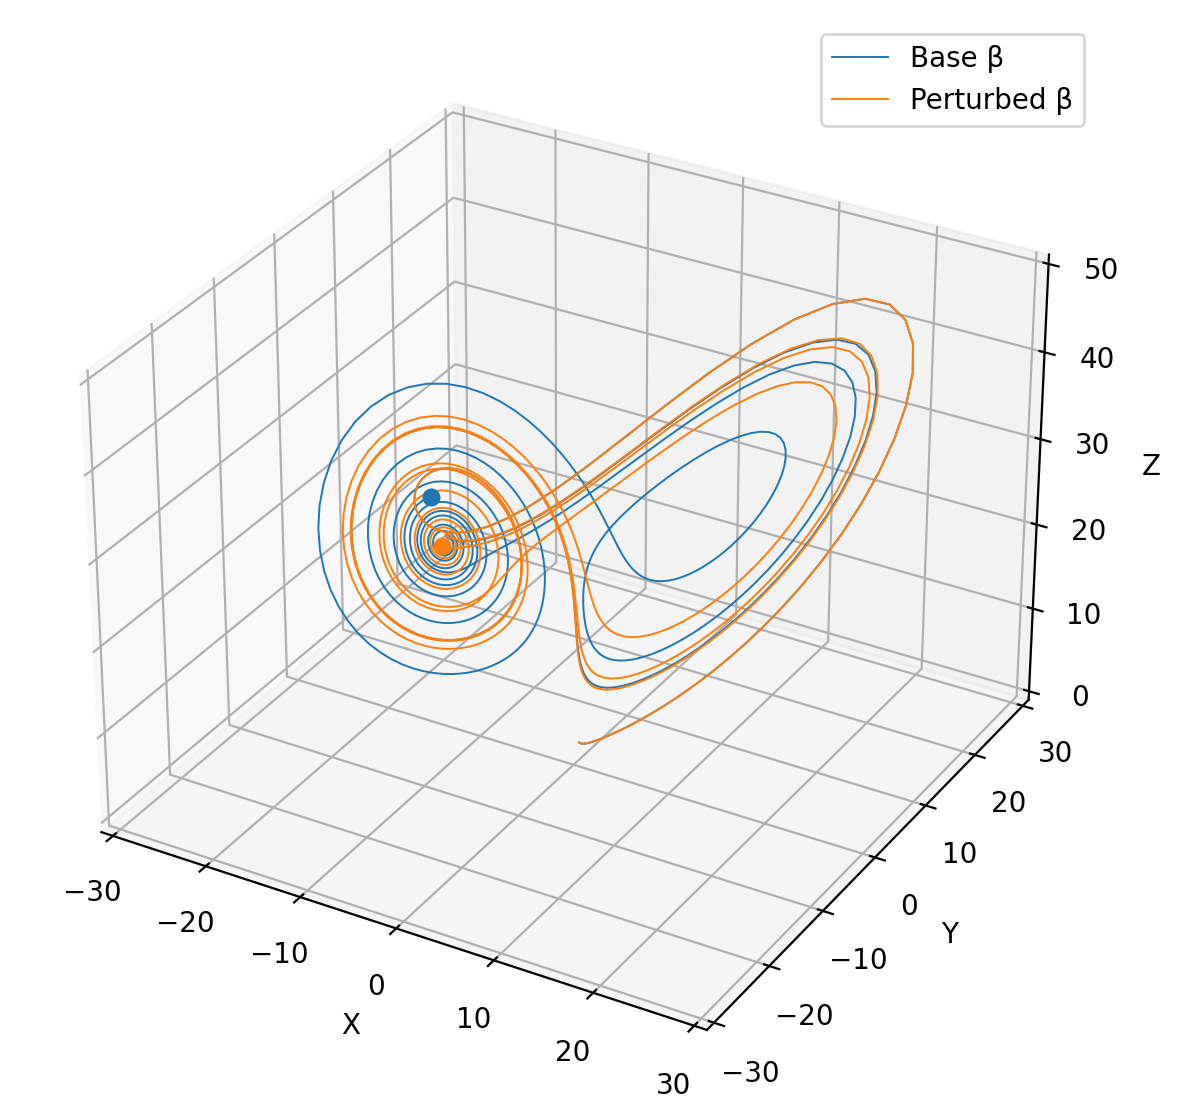
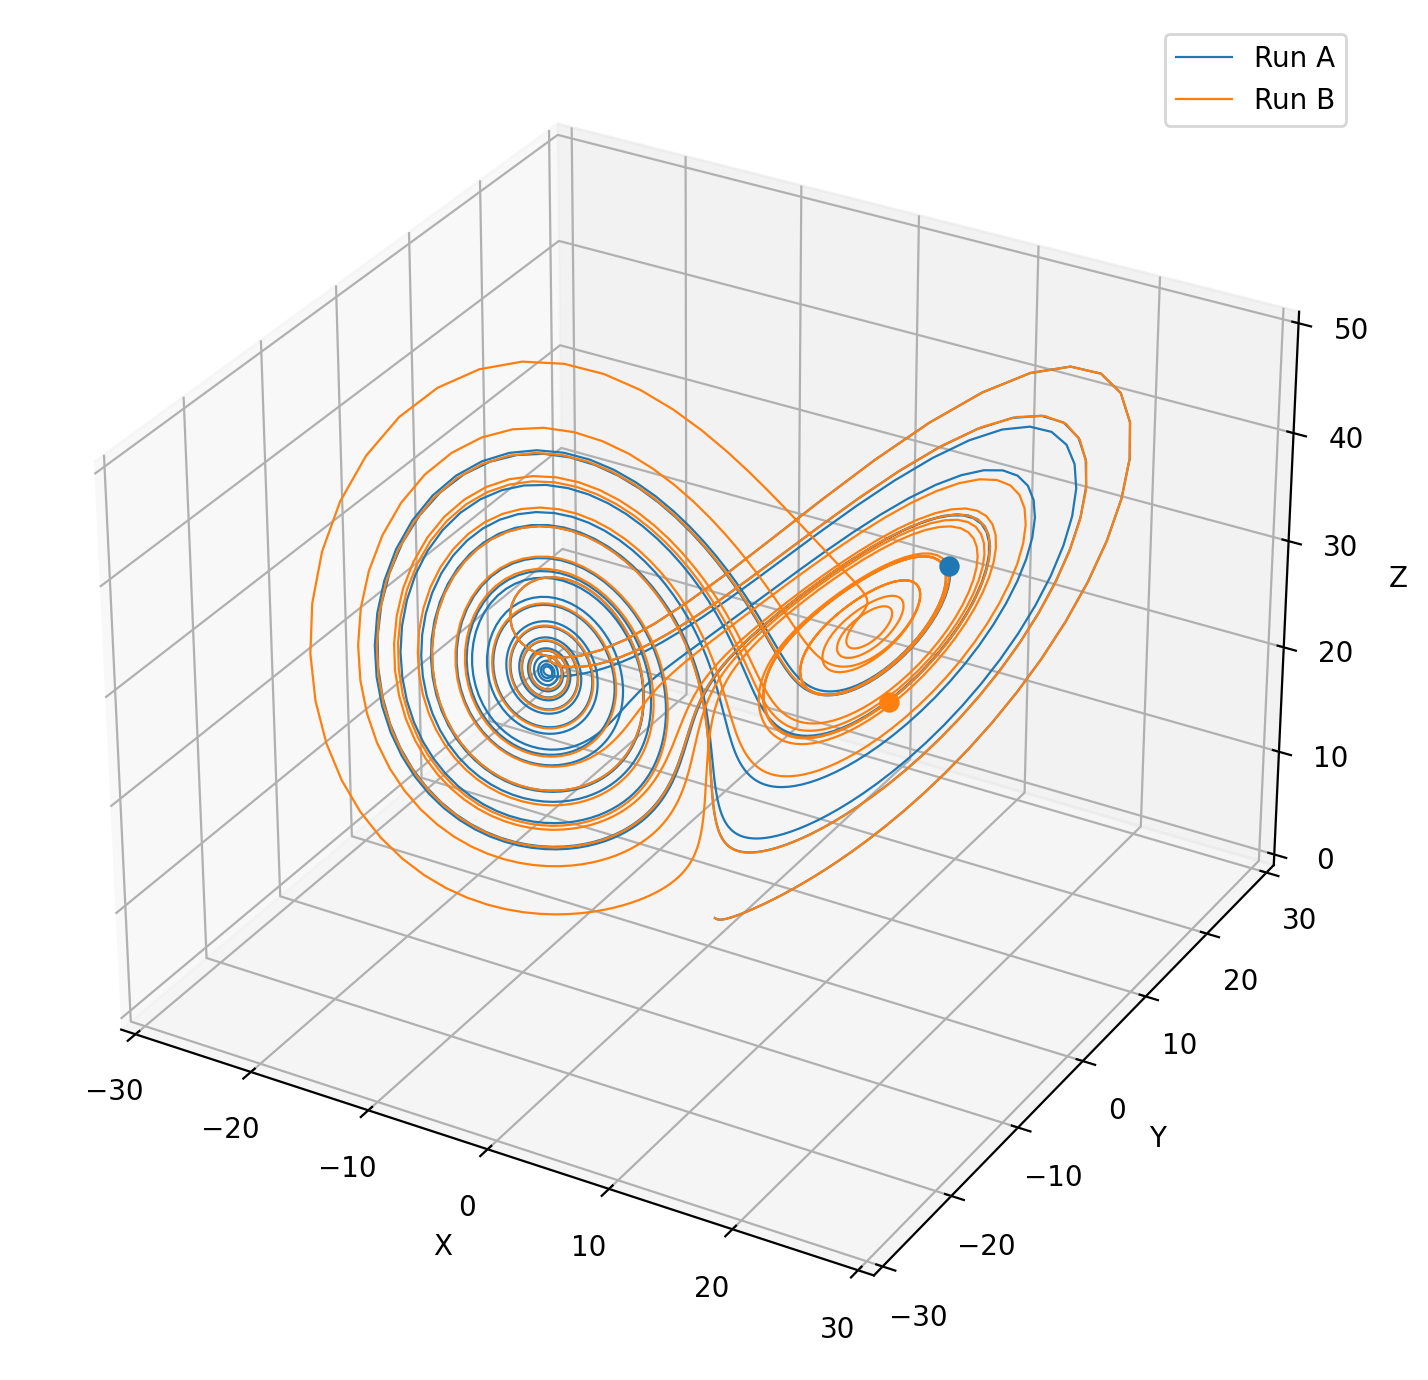
Update website

diff --git a/projs/lorenz63_demo.html b/projs/lorenz63_demo.html
@@ -6,7 +6,7 @@
 
 <meta name="viewport" content="width=device-width, initial-scale=1.0, user-scalable=yes">
 
-<meta name="description" content="A demonstration of the Butterfly Effect using the Lorenz63 model.">
+<meta name="description" content="Compare two different Lorenz63 trajectories with custom parameters.">
 
 <title>Lorenz63 Demo – Feng Zhu</title>
 <style>
@@ -73,14 +73,6 @@ ul.task-list li input[type="checkbox"] {
     "search-label": "Search"
   }
 }</script>
-<script>
-document.addEventListener("DOMContentLoaded", function () {
-  document.querySelectorAll(".quarto-listing a").forEach(link => {
-    link.setAttribute("target", "_blank");
-    link.setAttribute("rel", "noopener noreferrer");
-  });
-});
-</script>
 <link rel="stylesheet" href="https://cdn.jsdelivr.net/gh/jpswalsh/academicons@1/css/academicons.min.css">
 
 
@@ -305,7 +297,7 @@ document.addEventListener("DOMContentLoaded", function () {
 
 <div>
   <div class="description">
-    A demonstration of the Butterfly Effect using the Lorenz63 model.
+    Compare two different Lorenz63 trajectories with custom parameters.
   </div>
 </div>
 
@@ -322,14 +314,14 @@ document.addEventListener("DOMContentLoaded", function () {
 </header>
 
 
-<p>Move the sliders below to see the Butterfly Effect in action. This simulation runs entirely in your browser.</p>
+<p>Modify the parameters for two different runs to see how sensitive the system is to initial conditions and coefficients.</p>
 <script src="https://cdn.jsdelivr.net/npm/@stlite/mountable@0.39.0/build/stlite.js"></script>
 <div id="stlite-root">
 
 </div>
 <script>
       stlite.mount({
-        requirements: ["matplotlib", "numpy"], // Install needed packages in the browser
+        requirements: ["matplotlib", "numpy"],
         entrypoint: "app.py",
         files: {
           "app.py": `
@@ -339,67 +331,83 @@ import numpy as np
 
 # --- 1. LORENZ63 CLASS ---
 class Lorenz63:
-    def __init__(self, x, y, z, sigma=10, rho=28, beta=8/3):
+    def __init__(self, x, y, z, sigma, rho, beta):
         self.x, self.y, self.z = x, y, z
         self.xs, self.ys, self.zs = [x], [y], [z]
         self.sigma, self.rho, self.beta = sigma, rho, beta
     
-    def grad(self):
-        x_dot = self.sigma*(self.y - self.x)
-        y_dot = self.x*(self.rho - self.z) - self.y
-        z_dot = self.x*self.y - self.beta*self.z
+    def grad(self, x, y, z):
+        x_dot = self.sigma*(y - x)
+        y_dot = x*(self.rho - z) - y
+        z_dot = x*y - self.beta*z
         return x_dot, y_dot, z_dot
 
-    def forward(self, num_steps=1, dt=0.01):
+    def forward(self, num_steps, dt):
+        curr_x, curr_y, curr_z = self.x, self.y, self.z
         for _ in range(num_steps):
-            x_dot, y_dot, z_dot = self.grad()
-            self.x += x_dot * dt
-            self.y += y_dot * dt
-            self.z += z_dot * dt
-            self.xs.append(self.x)
-            self.ys.append(self.y)
-            self.zs.append(self.z)
+            x_dot, y_dot, z_dot = self.grad(curr_x, curr_y, curr_z)
+            curr_x += x_dot * dt
+            curr_y += y_dot * dt
+            curr_z += z_dot * dt
+            self.xs.append(curr_x)
+            self.ys.append(curr_y)
+            self.zs.append(curr_z)
 
 # --- 2. STREAMLIT UI ---
 st.set_page_config(page_title="Lorenz63 Demo", layout="wide")
 
-st.sidebar.header("Model Parameters")
-sigma = st.sidebar.slider("Sigma (σ)", 0.0, 50.0, 10.0)
-rho = st.sidebar.slider("Rho (ρ)", 0.0, 50.0, 28.0)
-beta_base = st.sidebar.slider("Beta (β)", 0.0, 10.0, 2.666)
-delta_beta = st.sidebar.number_input("Perturbation in β (Error)", value=0.001, format="%.4f")
+st.sidebar.subheader("Time Control")
+n_steps = st.sidebar.slider("Total Number of Steps (nt)", 100, 4000, 2000)
+dt = st.sidebar.slider("Time Step (dt)", 0.01, 0.02, 0.01, format="%.2f")
+t_visible = st.sidebar.select_slider("Time Progress (t)", options=range(n_steps + 1), value=n_steps)
 
-st.sidebar.header("Simulation Settings")
-n_steps = st.sidebar.slider("Number of Steps", 100, 5000, 1000)
-t_visible = st.sidebar.select_slider("Time Progress", options=range(n_steps), value=n_steps-1)
-
-# --- 3. COMPUTATION ---
-# We calculate once per interaction
-x0, y0, z0 = 0.0, 1.0, 1.05
-
-L1 = Lorenz63(x0, y0, z0, sigma=sigma, rho=rho, beta=beta_base)
-L1.forward(n_steps)
-
-L2 = Lorenz63(x0, y0, z0, sigma=sigma, rho=rho, beta=beta_base + delta_beta)
-L2.forward(n_steps)
-
-# --- 4. VISUALIZATION ---
 st.title("Lorenz63: The Butterfly Effect")
-st.write(f"Showing divergence between two trajectories with a Δβ of {delta_beta}")
 
-left_spacer, mid_content, right_spacer = st.columns([2, 4, 2])
+# Create two columns for Parameter Inputs
+col_a, col_b, col_c = st.columns([10, 1, 10])
 
-with mid_content:
-    fig = plt.figure(figsize=[10, 7])
+with col_c:
+    st.subheader("Run A Parameters")
+    c1, c2, c3 = st.columns(3)
+    x0_a = c1.number_input("x0 (A)", value=0.0, step=0.001, format="%.3f")
+    y0_a = c2.number_input("y0 (A)", value=1.0, step=0.001, format="%.3f")
+    z0_a = c3.number_input("z0 (A)", value=1.05, step=0.001, format="%.3f")
+    
+    c4, c5, c6 = st.columns(3)
+    s_a = c4.number_input("Sigma (A)", value=10.0, step=0.001, format="%.3f")
+    r_a = c5.number_input("Rho (A)", value=28.0, step=0.001, format="%.3f")
+    b_a = c6.number_input("Beta (A)", value=2.667, step=0.001, format="%.3f")
+
+    st.subheader("Run B Parameters")
+    c1, c2, c3 = st.columns(3)
+    x0_b = c1.number_input("x0 (B)", value=0.0, step=0.001, format="%.3f")
+    y0_b = c2.number_input("y0 (B)", value=1.0, step=0.001, format="%.3f")
+    z0_b = c3.number_input("z0 (B)", value=1.051, step=0.001, format="%.3f") # Small difference
+    
+    c4, c5, c6 = st.columns(3)
+    s_b = c4.number_input("Sigma (B)", value=10.0, step=0.001, format="%.3f")
+    r_b = c5.number_input("Rho (B)", value=28.0, step=0.001, format="%.3f")
+    b_b = c6.number_input("Beta (B)", value=2.667, step=0.001, format="%.3f")
+
+with col_a:
+    # --- 3. COMPUTATION ---
+    run_a = Lorenz63(x0_a, y0_a, z0_a, s_a, r_a, b_a)
+    run_a.forward(n_steps, dt)
+
+    run_b = Lorenz63(x0_b, y0_b, z0_b, s_b, r_b, b_b)
+    run_b.forward(n_steps, dt)
+
+    # --- 4. VISUALIZATION ---
+    fig = plt.figure(figsize=[12, 7])
     ax = fig.add_subplot(projection='3d')
 
-    # Plot trajectories up to the selected time step
-    ax.plot(L1.xs[:t_visible], L1.ys[:t_visible], L1.zs[:t_visible], lw=0.7, color='tab:blue', label='Base β')
-    ax.plot(L2.xs[:t_visible], L2.ys[:t_visible], L2.zs[:t_visible], lw=0.7, color='tab:orange', label='Perturbed β')
+    # Plot trajectories
+    ax.plot(run_a.xs[:t_visible+1], run_a.ys[:t_visible+1], run_a.zs[:t_visible+1], lw=0.8, color='tab:blue', label='Run A')
+    ax.plot(run_b.xs[:t_visible+1], run_b.ys[:t_visible+1], run_b.zs[:t_visible+1], lw=0.8, color='tab:orange', label='Run B')
 
-    # Draw the leading points
-    ax.scatter(L1.xs[t_visible], L1.ys[t_visible], L1.zs[t_visible], color='tab:blue', s=30)
-    ax.scatter(L2.xs[t_visible], L2.ys[t_visible], L2.zs[t_visible], color='tab:orange', s=30)
+    # Current position markers
+    ax.scatter(run_a.xs[t_visible], run_a.ys[t_visible], run_a.zs[t_visible], color='tab:blue', s=40)
+    ax.scatter(run_b.xs[t_visible], run_b.ys[t_visible], run_b.zs[t_visible], color='tab:orange', s=40)
 
     ax.set_xlabel('X')
     ax.set_ylabel('Y')
@@ -408,13 +416,20 @@ with mid_content:
     ax.set_ylim(-30, 30)
     ax.set_zlim(0, 50)
     ax.legend()
-
+    plt.tight_layout()
     st.pyplot(fig)
 
-col1, col2, col3 = st.columns(3)
-col1.metric("Error dX", f"{abs(L1.xs[t_visible]-L2.xs[t_visible]):.2f}")
-col2.metric("Error dY", f"{abs(L1.ys[t_visible]-L2.ys[t_visible]):.2f}")
-col3.metric("Error dZ", f"{abs(L1.zs[t_visible]-L2.zs[t_visible]):.2f}")
+with col_c:
+    st.divider()
+    st.subheader("Results")
+    # Metrics
+    dist = np.sqrt((run_a.xs[t_visible]-run_b.xs[t_visible])**2 + 
+                   (run_a.ys[t_visible]-run_b.ys[t_visible])**2 + 
+                   (run_a.zs[t_visible]-run_b.zs[t_visible])**2)
+
+    st.metric("Run A (X, Y, Z)", f"{run_a.xs[t_visible]:.3f}, {run_a.ys[t_visible]:.3f}, {run_a.zs[t_visible]:.3f}")
+    st.metric("Run B (X, Y, Z)", f"{run_b.xs[t_visible]:.3f}, {run_b.ys[t_visible]:.3f}, {run_b.zs[t_visible]:.3f}")
+    st.metric("Euclidean Distance", f"{dist:.5f}")
 `,
         },
       });

diff --git a/projs/index.html b/projs/index.html
@@ -103,14 +103,6 @@ ul.task-list li input[type="checkbox"] {
     }
   })
   </script>
-<script>
-document.addEventListener("DOMContentLoaded", function () {
-  document.querySelectorAll(".quarto-listing a").forEach(link => {
-    link.setAttribute("target", "_blank");
-    link.setAttribute("rel", "noopener noreferrer");
-  });
-});
-</script>
 <link rel="stylesheet" href="https://cdn.jsdelivr.net/gh/jpswalsh/academicons@1/css/academicons.min.css">
 
   <script src="https://cdnjs.cloudflare.com/polyfill/v3/polyfill.min.js?features=es6"></script>
@@ -402,7 +394,7 @@ window.Quarto = {
     </div>
 </div>
 <div class="list quarto-listing-default">
-<div class="quarto-post image-left" data-index="0" data-categories="UHl0aG9uJTJDTW9kZWxpbmclMkNMb3Jlbno2Mw==" data-listing-file-modified-sort="1771119713194" data-listing-reading-time-sort="3" data-listing-word-count-sort="539">
+<div class="quarto-post image-left" data-index="0" data-categories="UHl0aG9uJTJDTW9kZWxpbmclMkNMb3Jlbno2Mw==" data-listing-file-modified-sort="1771276010916" data-listing-reading-time-sort="5" data-listing-word-count-sort="802">
 <div class="thumbnail"><a href="../projs/lorenz63_demo.html" class="no-external">
 
 <img loading="lazy" src="../projs/lorenz63_demo.png" class="thumbnail-image">
@@ -413,7 +405,7 @@ window.Quarto = {
 <a href="../projs/lorenz63_demo.html" class="no-external">Lorenz63 Demo</a>
 </h3>
 <div class="delink listing-description"><a href="../projs/lorenz63_demo.html" class="no-external">
-<p>A demonstration of the Butterfly Effect using the Lorenz63 model.</p>
+<p>Compare two different Lorenz63 trajectories with custom parameters.</p>
 </a></div>
 </div>
 <div class="metadata">

diff --git a/pubs/index.html b/pubs/index.html
@@ -103,14 +103,6 @@ ul.task-list li input[type="checkbox"] {
     }
   })
   </script>
-<script>
-document.addEventListener("DOMContentLoaded", function () {
-  document.querySelectorAll(".quarto-listing a").forEach(link => {
-    link.setAttribute("target", "_blank");
-    link.setAttribute("rel", "noopener noreferrer");
-  });
-});
-</script>
 <link rel="stylesheet" href="https://cdn.jsdelivr.net/gh/jpswalsh/academicons@1/css/academicons.min.css">
 
   <script src="https://cdnjs.cloudflare.com/polyfill/v3/polyfill.min.js?features=es6"></script>

diff --git a/index.html b/index.html
@@ -71,14 +71,6 @@ ul.task-list li input[type="checkbox"] {
     "search-label": "Search"
   }
 }</script>
-<script>
-document.addEventListener("DOMContentLoaded", function () {
-  document.querySelectorAll(".quarto-listing a").forEach(link => {
-    link.setAttribute("target", "_blank");
-    link.setAttribute("rel", "noopener noreferrer");
-  });
-});
-</script>
 <link rel="stylesheet" href="https://cdn.jsdelivr.net/gh/jpswalsh/academicons@1/css/academicons.min.css">
 
 
